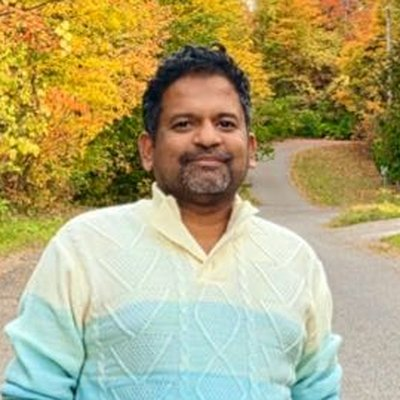
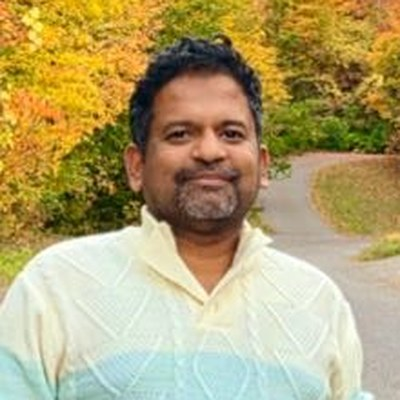
Card photo blends in

diff --git a/index.html b/index.html
@@ -156,15 +156,16 @@
   .fc-team { margin-top: calc(var(--w) * .02); font: 700 calc(var(--w) * .042)/1.1 var(--display); letter-spacing: .06em; text-transform: uppercase; overflow-wrap: anywhere; }
   .fc-left i { display: block; width: calc(var(--w) * .1); height: calc(var(--w) * .065); border-radius: 3px; margin: calc(var(--w) * .03) auto 0; }
   .fc-left img { display: block; width: calc(var(--w) * .1); height: calc(var(--w) * .1); border-radius: 50%; background: #fff; margin: calc(var(--w) * .03) auto 0; }
-  .fc-photo { position: absolute; right: calc(var(--w) * .07); top: calc(var(--w) * .1); width: calc(var(--w) * .58); height: calc(var(--w) * .58); display: grid; place-items: end center; overflow: hidden; border-radius: 0 0 50% 50% / 0 0 18% 18%; }
+  .fc-photo { position: absolute; right: calc(var(--w) * .05); top: calc(var(--w) * .1); width: calc(var(--w) * .6); height: calc(var(--w) * .66); display: grid; place-items: end center; overflow: hidden;
+    -webkit-mask-image: radial-gradient(ellipse 62% 66% at 50% 42%, #000 62%, transparent 100%); mask-image: radial-gradient(ellipse 62% 66% at 50% 42%, #000 62%, transparent 100%); }
   .fc-photo img { width: 100%; height: 100%; object-fit: cover; }
   .fc-photo svg { width: 88%; opacity: .4; }
-  .fc-name { position: absolute; left: calc(var(--w) * .08); right: calc(var(--w) * .08); top: calc(var(--w) * .72); text-align: center; font: 800 calc(var(--w) * .1)/1 var(--display); text-transform: uppercase; letter-spacing: .02em; white-space: nowrap; overflow: hidden; text-overflow: ellipsis; padding-bottom: calc(var(--w) * .025); border-bottom: 1px solid rgba(59,42,5,.35); }
+  .fc-name { position: absolute; left: calc(var(--w) * .08); right: calc(var(--w) * .08); top: calc(var(--w) * .8); text-align: center; font: 800 calc(var(--w) * .1)/1 var(--display); text-transform: uppercase; letter-spacing: .02em; white-space: nowrap; overflow: hidden; text-overflow: ellipsis; padding-bottom: calc(var(--w) * .025); border-bottom: 1px solid rgba(59,42,5,.35); }
   .fc-name.long { font-size: calc(var(--w) * .078); }
-  .fc-stats { position: absolute; left: calc(var(--w) * .14); right: calc(var(--w) * .14); top: calc(var(--w) * .86); display: grid; grid-template-columns: 1fr 1fr; column-gap: calc(var(--w) * .08); font: 700 calc(var(--w) * .066)/1.5 var(--display); }
+  .fc-stats { position: absolute; left: calc(var(--w) * .14); right: calc(var(--w) * .14); top: calc(var(--w) * .95); display: grid; grid-template-columns: 1fr 1fr; column-gap: calc(var(--w) * .08); font: 700 calc(var(--w) * .066)/1.5 var(--display); }
   .fc-stats div { display: flex; gap: calc(var(--w) * .03); } .fc-stats b { font-weight: 800; min-width: 1.5em; } .fc-stats span { font-weight: 600; letter-spacing: .04em; }
   .fc-stats div:nth-child(odd) { border-right: 1px solid rgba(59,42,5,.25); }
-  .fc-cap { position: absolute; left: 0; right: 0; top: calc(var(--w) * 1.24); text-align: center; font: 800 calc(var(--w) * .038) var(--display); letter-spacing: .16em; text-transform: uppercase; }
+  .fc-cap { position: absolute; left: 0; right: 0; top: calc(var(--w) * 1.3); text-align: center; font: 800 calc(var(--w) * .038) var(--display); letter-spacing: .16em; text-transform: uppercase; }
   .fc-x { position: absolute; top: 14px; right: 14px; width: 44px; height: 44px; border-radius: 50%; border: 0; background: rgba(255,255,255,.15); color: #fff; font: 600 26px/1 var(--body); cursor: pointer; }
   .fc-x:focus-visible { outline: 2px solid #fff; outline-offset: 2px; }
   @media (prefers-reduced-motion: reduce) { .fc, .fc-ov { animation: none; } }
